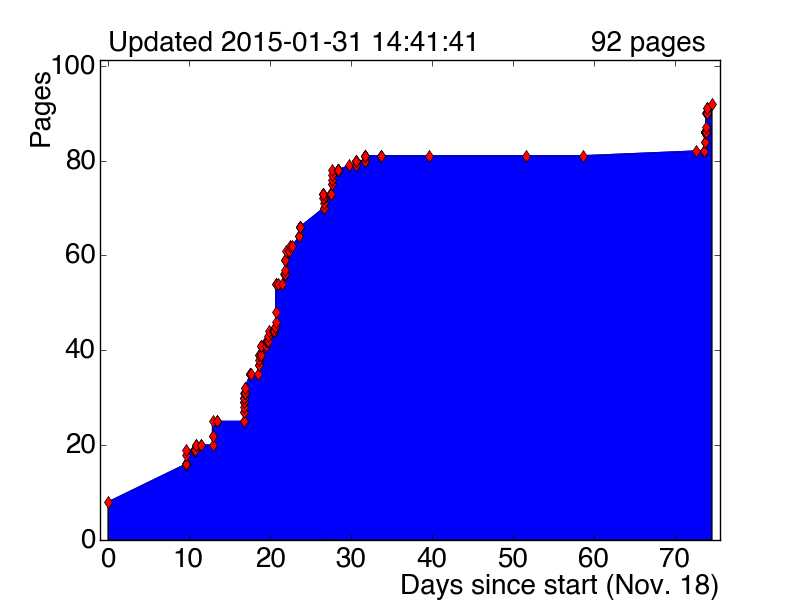
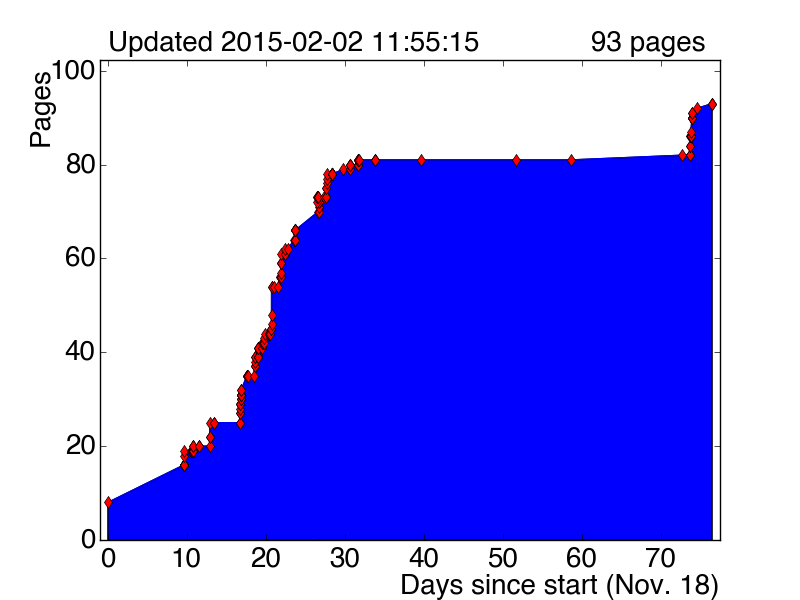
add SM chapter template

diff --git a/thesis.tex b/thesis.tex
@@ -57,6 +57,7 @@
 %%--------------------------------------------------------------------
 \mainmatter
 \include{tex/introduction}
+\include{tex/standardmodel}
 \include{tex/experiment}
 \include{tex/taus}
 \include{tex/strategy}

diff --git a/tex/standardmodel.tex b/tex/standardmodel.tex
@@ -1,0 +1,5 @@
+\chapter[The Standard Model][The Standard Model]{The Standard Model}
+
+Here is a citation~\cite{1999.ATLAS.Physics-TDR}.
+
+

diff --git a/outline.md b/outline.md
@@ -2,7 +2,8 @@
 
 ## Evidence for Higgs boson decays to taus with ATLAS at the LHC
 
-0. [Introduction](tex/introduction.tex) :small_red_triangle:
+0. [Introduction](tex/introduction.tex)        :small_red_triangle:
+0. [The Standard Model](tex/standardmodel.tex) :small_red_triangle:
 0. [The LHC and ATLAS](tex/)            :small_red_triangle:
   0. Tracking                           :small_red_triangle:
   0. Calorimetry                        :small_red_triangle:

diff --git a/pages.md b/pages.md
@@ -212,3 +212,6 @@
 + [2015-01-30-23h39m56s] 91
 + [2015-01-30-23h40m27s] 91
 + [2015-01-31-14h41m41s] 92
++ [2015-02-02-11h53m51s] 93
++ [2015-02-02-11h54m33s] 93
++ [2015-02-02-11h55m15s] 93
